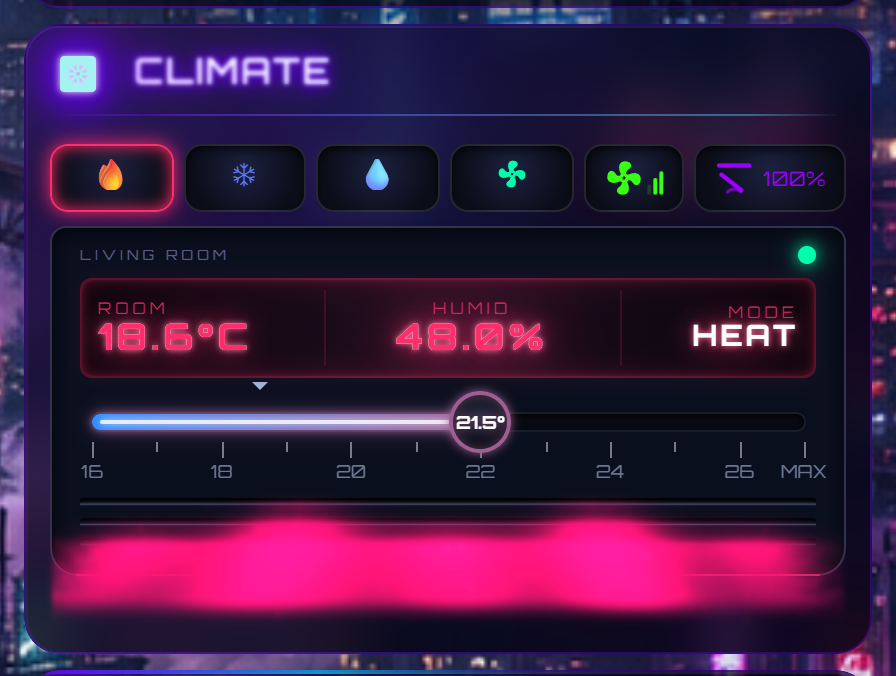
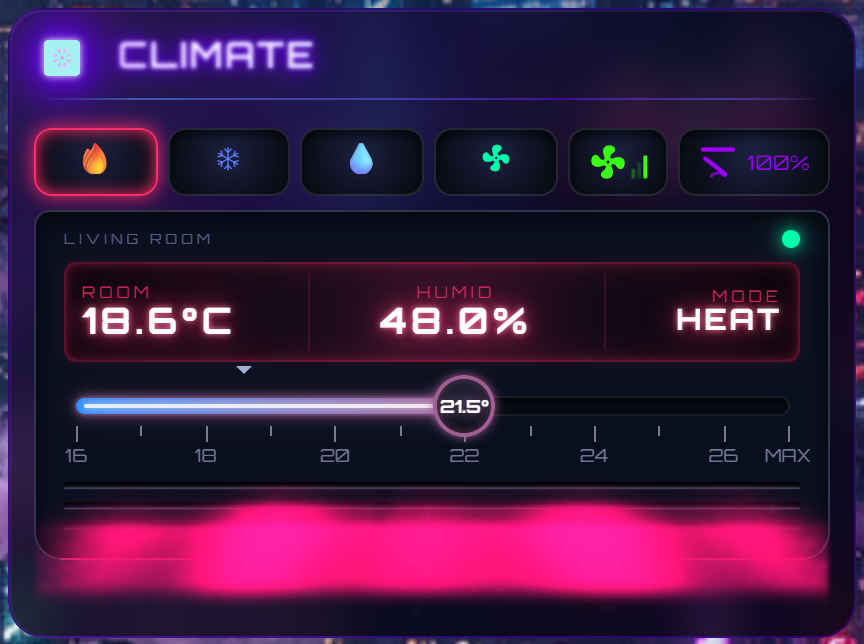
Screenshots: values at rest (white), add off state

diff --git a/README.md b/README.md
@@ -17,7 +17,10 @@
 
 The air under the louvres is not a looping animation: it is a small Navier–Stokes solver running on the GPU. One jet per slot, the colour follows the HVAC mode, the strength follows the fan speed, and the slats follow `swing_mode`.
 
-<img src="https://raw.githubusercontent.com/cerealkiller57540/neon-climate-card/main/images/heat.png" alt="Neon Climate Card in heating mode" width="448">
+<p>
+  <img src="https://raw.githubusercontent.com/cerealkiller57540/neon-climate-card/main/images/heat.png" alt="Neon Climate Card in heating mode" width="400">
+  <img src="https://raw.githubusercontent.com/cerealkiller57540/neon-climate-card/main/images/off.png" alt="Neon Climate Card switched off" width="400">
+</p>
 
 ## ✨ Features
 
